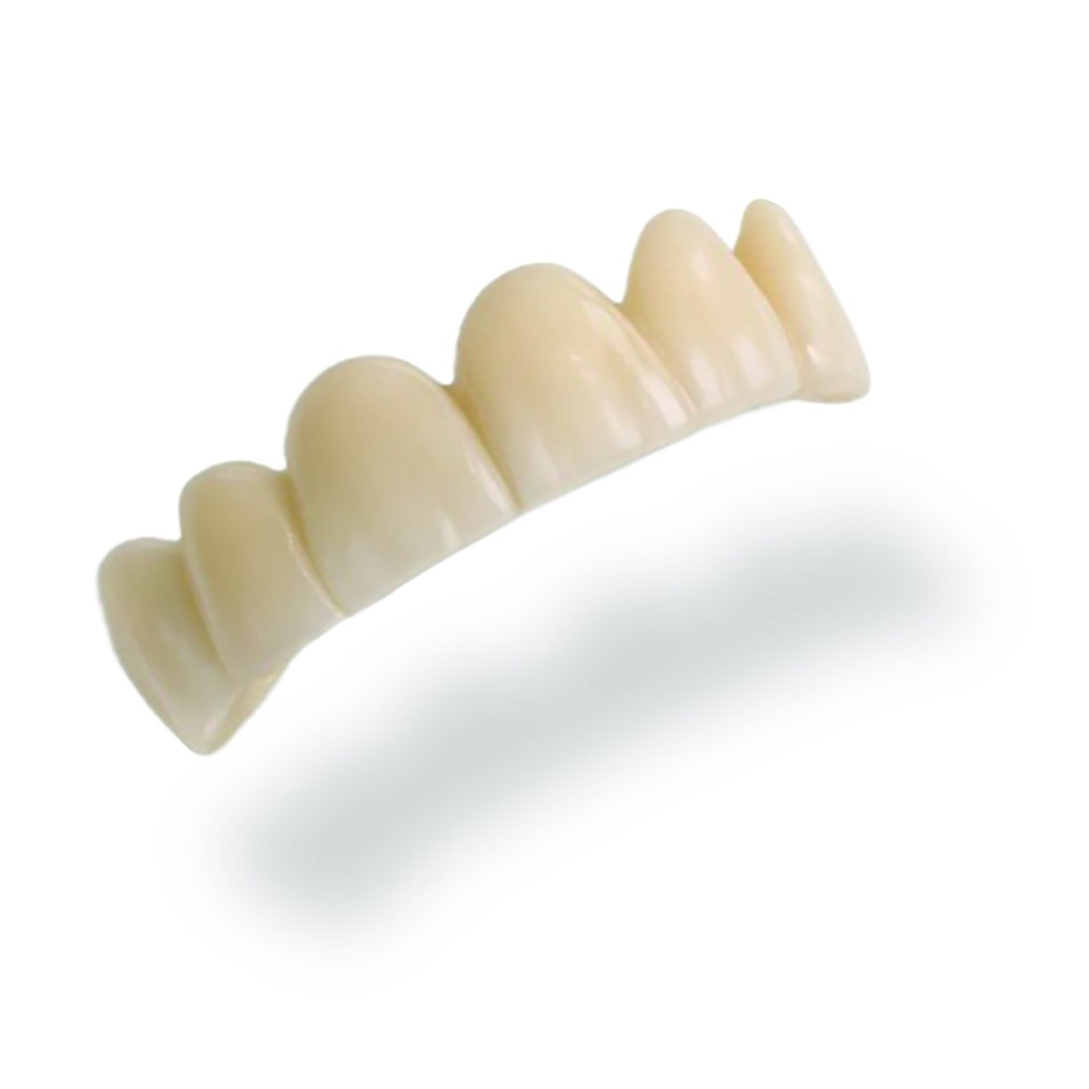
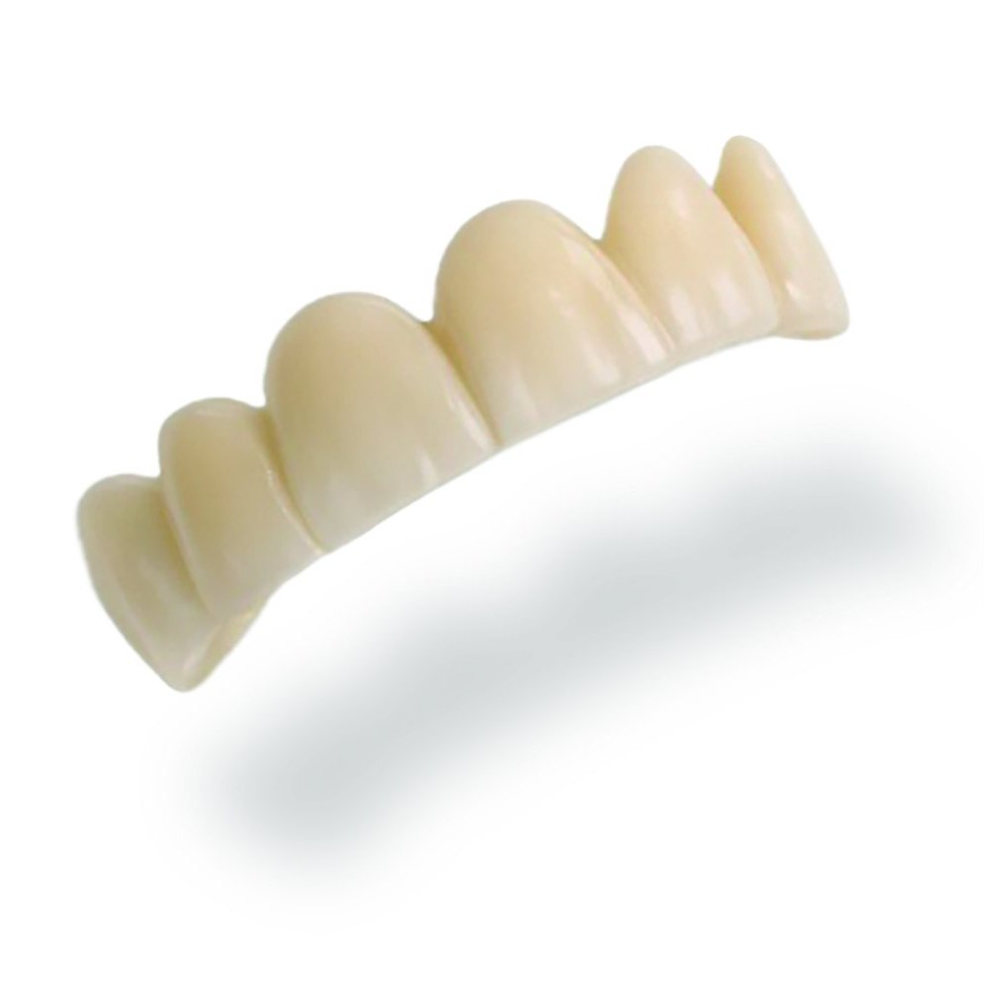
Fotos de tipo centradas en su marco y footer con enlaces en toda la web
Las fotos de estudio traian el objeto descentrado dentro del archivo
(reflejo abajo, mano entrando por una esquina), asi que aunque el marco
estaba centrado la pieza salia arriba o a un lado. Se recortan las 28
fotos de tarjeta con fondo blanco alrededor del sujeto y se recolocan
en un lienzo cuadrado, con lo que quedan centradas en la caja.

El pie de pagina, que era una sola linea, pasa a tener cuatro columnas:
presentacion y licencia, los ocho trabajos, las paginas del laboratorio
(incluido tiempos de entrega y la tarifa) y el contacto con telefono,
correo y WhatsApp. Igual en las 12 paginas; en movil a dos columnas.

Claude-Session: https://claude.ai/code/session_01G9ySE2q82eBR5v7f2bLYwG

diff --git a/corporativa/trabajos/all-on.html b/corporativa/trabajos/all-on.html
@@ -262,7 +262,15 @@ h2.big2 em { font-style:normal; color:var(--goldd); }
 </div></section>
 
 <div class="cta"><div class="in14"><h2>Conf&iacute;a tu pr&oacute;ximo caso a RB Dental.</h2><a class="pill" href="https://wa.me/34680555303?text=Hola,%20quiero%20enviar%20un%20caso%20al%20laboratorio">Enviar un caso &rarr;</a><a class="pill line" href="tel:+34913292062">Contactar con el laboratorio</a></div></div>
-<footer><div class="in14"><span>RB dental &middot; C/ Canal de Suez 42, 28042 Madrid &middot; Licencia sanitaria FP-00602</span><span>91 329 20 62 &middot; laboratorio@rbdental.es</span></div></footer>
+<footer><div class="in14">
+  <div class="fgrid4">
+    <div class="fcol"><img src="../img/logo-rb.png" alt="RB dental"><p>Laboratorio de pr&oacute;tesis dental digital en Madrid, desde 1990. Fabricamos para cl&iacute;nicas y odont&oacute;logos de toda Espa&ntilde;a.</p><p>Licencia sanitaria FP-00602 &middot; Comunidad de Madrid</p></div>
+    <div class="fcol"><h4>Nuestros trabajos</h4><a href="../trabajos/protesis-fija.html">Pr&oacute;tesis fija</a><a href="../trabajos/all-on.html">All-on-4 / All-on-6</a><a href="../trabajos/blender.html">Blender</a><a href="../trabajos/carga-inmediata.html">Carga inmediata</a><a href="../trabajos/removible.html">Removible</a><a href="../trabajos/diseno-de-sonrisa.html">Dise&ntilde;o de sonrisa</a><a href="../trabajos/ortodoncia.html">Ortodoncia</a><a href="../trabajos/ferulas.html">F&eacute;rulas</a></div>
+    <div class="fcol"><h4>Laboratorio</h4><a href="../index.html">Inicio</a><a href="../quienes-somos.html">Qui&eacute;nes somos</a><a href="../nuestros-trabajos.html">Nuestros trabajos</a><a href="../nuestros-trabajos.html#tiempos-de-entrega">Tiempos de entrega</a><a href="../como-enviar-un-caso.html">C&oacute;mo enviar un caso</a><a href="https://tarifas.laboratoriodentalrb.com" target="_blank" rel="noopener">Tarifas 2026</a></div>
+    <div class="fcol"><h4>Contacto</h4><p>C/ Canal de Suez 42<br>28042 Madrid</p><a href="tel:+34913292062">91 329 20 62</a><a href="mailto:laboratorio@rbdental.es">laboratorio@rbdental.es</a><a class="pill" href="https://wa.me/34680555303?text=Hola,%20quiero%20enviar%20un%20caso%20al%20laboratorio">WhatsApp &middot; 680 555 303</a></div>
+  </div>
+  <div class="fbottom"><span>&copy; 2026 RB Dental &middot; Laboratorio de Pr&oacute;tesis Dental Digital &middot; Madrid</span><span>Recogida y entrega gratuitas en Madrid &middot; env&iacute;os a toda Espa&ntilde;a</span></div>
+</div></footer>
 <svg style="display:none" xmlns="http://www.w3.org/2000/svg">
 <symbol id="ic-cal2" viewBox="0 0 24 24"><rect x="3" y="5" width="18" height="16" rx="3"/><path d="M3 10h18M8 3v4M16 3v4"/></symbol>
 <symbol id="ic-clock" viewBox="0 0 24 24"><circle cx="12" cy="12" r="9"/><path d="M12 7v5l3.5 2"/></symbol>

diff --git a/corporativa/trabajos/blender.html b/corporativa/trabajos/blender.html
@@ -288,7 +288,15 @@ h2.big2 em { font-style:normal; color:var(--goldd); }
 </div></section>
 
 <div class="cta"><div class="in14"><h2>Conf&iacute;a tu pr&oacute;ximo caso a RB Dental.</h2><a class="pill" href="https://wa.me/34680555303?text=Hola,%20quiero%20enviar%20un%20caso%20al%20laboratorio">Enviar un caso &rarr;</a><a class="pill line" href="tel:+34913292062">Contactar con el laboratorio</a></div></div>
-<footer><div class="in14"><span>RB dental &middot; C/ Canal de Suez 42, 28042 Madrid &middot; Licencia sanitaria FP-00602</span><span>91 329 20 62 &middot; laboratorio@rbdental.es</span></div></footer>
+<footer><div class="in14">
+  <div class="fgrid4">
+    <div class="fcol"><img src="../img/logo-rb.png" alt="RB dental"><p>Laboratorio de pr&oacute;tesis dental digital en Madrid, desde 1990. Fabricamos para cl&iacute;nicas y odont&oacute;logos de toda Espa&ntilde;a.</p><p>Licencia sanitaria FP-00602 &middot; Comunidad de Madrid</p></div>
+    <div class="fcol"><h4>Nuestros trabajos</h4><a href="../trabajos/protesis-fija.html">Pr&oacute;tesis fija</a><a href="../trabajos/all-on.html">All-on-4 / All-on-6</a><a href="../trabajos/blender.html">Blender</a><a href="../trabajos/carga-inmediata.html">Carga inmediata</a><a href="../trabajos/removible.html">Removible</a><a href="../trabajos/diseno-de-sonrisa.html">Dise&ntilde;o de sonrisa</a><a href="../trabajos/ortodoncia.html">Ortodoncia</a><a href="../trabajos/ferulas.html">F&eacute;rulas</a></div>
+    <div class="fcol"><h4>Laboratorio</h4><a href="../index.html">Inicio</a><a href="../quienes-somos.html">Qui&eacute;nes somos</a><a href="../nuestros-trabajos.html">Nuestros trabajos</a><a href="../nuestros-trabajos.html#tiempos-de-entrega">Tiempos de entrega</a><a href="../como-enviar-un-caso.html">C&oacute;mo enviar un caso</a><a href="https://tarifas.laboratoriodentalrb.com" target="_blank" rel="noopener">Tarifas 2026</a></div>
+    <div class="fcol"><h4>Contacto</h4><p>C/ Canal de Suez 42<br>28042 Madrid</p><a href="tel:+34913292062">91 329 20 62</a><a href="mailto:laboratorio@rbdental.es">laboratorio@rbdental.es</a><a class="pill" href="https://wa.me/34680555303?text=Hola,%20quiero%20enviar%20un%20caso%20al%20laboratorio">WhatsApp &middot; 680 555 303</a></div>
+  </div>
+  <div class="fbottom"><span>&copy; 2026 RB Dental &middot; Laboratorio de Pr&oacute;tesis Dental Digital &middot; Madrid</span><span>Recogida y entrega gratuitas en Madrid &middot; env&iacute;os a toda Espa&ntilde;a</span></div>
+</div></footer>
 <svg style="display:none" xmlns="http://www.w3.org/2000/svg">
 <symbol id="ic-cal2" viewBox="0 0 24 24"><rect x="3" y="5" width="18" height="16" rx="3"/><path d="M3 10h18M8 3v4M16 3v4"/></symbol>
 <symbol id="ic-clock" viewBox="0 0 24 24"><circle cx="12" cy="12" r="9"/><path d="M12 7v5l3.5 2"/></symbol>

diff --git a/corporativa/trabajos/carga-inmediata.html b/corporativa/trabajos/carga-inmediata.html
@@ -283,7 +283,15 @@ h2.big2 em { font-style:normal; color:var(--goldd); }
 </div></section>
 
 <div class="cta"><div class="in14"><h2>Conf&iacute;a tu pr&oacute;ximo caso a RB Dental.</h2><a class="pill" href="https://wa.me/34680555303?text=Hola,%20quiero%20enviar%20un%20caso%20al%20laboratorio">Enviar un caso &rarr;</a><a class="pill line" href="tel:+34913292062">Contactar con el laboratorio</a></div></div>
-<footer><div class="in14"><span>RB dental &middot; C/ Canal de Suez 42, 28042 Madrid &middot; Licencia sanitaria FP-00602</span><span>91 329 20 62 &middot; laboratorio@rbdental.es</span></div></footer>
+<footer><div class="in14">
+  <div class="fgrid4">
+    <div class="fcol"><img src="../img/logo-rb.png" alt="RB dental"><p>Laboratorio de pr&oacute;tesis dental digital en Madrid, desde 1990. Fabricamos para cl&iacute;nicas y odont&oacute;logos de toda Espa&ntilde;a.</p><p>Licencia sanitaria FP-00602 &middot; Comunidad de Madrid</p></div>
+    <div class="fcol"><h4>Nuestros trabajos</h4><a href="../trabajos/protesis-fija.html">Pr&oacute;tesis fija</a><a href="../trabajos/all-on.html">All-on-4 / All-on-6</a><a href="../trabajos/blender.html">Blender</a><a href="../trabajos/carga-inmediata.html">Carga inmediata</a><a href="../trabajos/removible.html">Removible</a><a href="../trabajos/diseno-de-sonrisa.html">Dise&ntilde;o de sonrisa</a><a href="../trabajos/ortodoncia.html">Ortodoncia</a><a href="../trabajos/ferulas.html">F&eacute;rulas</a></div>
+    <div class="fcol"><h4>Laboratorio</h4><a href="../index.html">Inicio</a><a href="../quienes-somos.html">Qui&eacute;nes somos</a><a href="../nuestros-trabajos.html">Nuestros trabajos</a><a href="../nuestros-trabajos.html#tiempos-de-entrega">Tiempos de entrega</a><a href="../como-enviar-un-caso.html">C&oacute;mo enviar un caso</a><a href="https://tarifas.laboratoriodentalrb.com" target="_blank" rel="noopener">Tarifas 2026</a></div>
+    <div class="fcol"><h4>Contacto</h4><p>C/ Canal de Suez 42<br>28042 Madrid</p><a href="tel:+34913292062">91 329 20 62</a><a href="mailto:laboratorio@rbdental.es">laboratorio@rbdental.es</a><a class="pill" href="https://wa.me/34680555303?text=Hola,%20quiero%20enviar%20un%20caso%20al%20laboratorio">WhatsApp &middot; 680 555 303</a></div>
+  </div>
+  <div class="fbottom"><span>&copy; 2026 RB Dental &middot; Laboratorio de Pr&oacute;tesis Dental Digital &middot; Madrid</span><span>Recogida y entrega gratuitas en Madrid &middot; env&iacute;os a toda Espa&ntilde;a</span></div>
+</div></footer>
 <svg style="display:none" xmlns="http://www.w3.org/2000/svg">
 <symbol id="ic-cal2" viewBox="0 0 24 24"><rect x="3" y="5" width="18" height="16" rx="3"/><path d="M3 10h18M8 3v4M16 3v4"/></symbol>
 <symbol id="ic-clock" viewBox="0 0 24 24"><circle cx="12" cy="12" r="9"/><path d="M12 7v5l3.5 2"/></symbol>

diff --git a/corporativa/trabajos/diseno-de-sonrisa.html b/corporativa/trabajos/diseno-de-sonrisa.html
@@ -248,7 +248,15 @@ h2.big2 em { font-style:normal; color:var(--goldd); }
 </div></section>
 
 <div class="cta"><div class="in14"><h2>Conf&iacute;a tu pr&oacute;ximo caso a RB Dental.</h2><a class="pill" href="https://wa.me/34680555303?text=Hola,%20quiero%20enviar%20un%20caso%20al%20laboratorio">Enviar un caso &rarr;</a><a class="pill line" href="tel:+34913292062">Contactar con el laboratorio</a></div></div>
-<footer><div class="in14"><span>RB dental &middot; C/ Canal de Suez 42, 28042 Madrid &middot; Licencia sanitaria FP-00602</span><span>91 329 20 62 &middot; laboratorio@rbdental.es</span></div></footer>
+<footer><div class="in14">
+  <div class="fgrid4">
+    <div class="fcol"><img src="../img/logo-rb.png" alt="RB dental"><p>Laboratorio de pr&oacute;tesis dental digital en Madrid, desde 1990. Fabricamos para cl&iacute;nicas y odont&oacute;logos de toda Espa&ntilde;a.</p><p>Licencia sanitaria FP-00602 &middot; Comunidad de Madrid</p></div>
+    <div class="fcol"><h4>Nuestros trabajos</h4><a href="../trabajos/protesis-fija.html">Pr&oacute;tesis fija</a><a href="../trabajos/all-on.html">All-on-4 / All-on-6</a><a href="../trabajos/blender.html">Blender</a><a href="../trabajos/carga-inmediata.html">Carga inmediata</a><a href="../trabajos/removible.html">Removible</a><a href="../trabajos/diseno-de-sonrisa.html">Dise&ntilde;o de sonrisa</a><a href="../trabajos/ortodoncia.html">Ortodoncia</a><a href="../trabajos/ferulas.html">F&eacute;rulas</a></div>
+    <div class="fcol"><h4>Laboratorio</h4><a href="../index.html">Inicio</a><a href="../quienes-somos.html">Qui&eacute;nes somos</a><a href="../nuestros-trabajos.html">Nuestros trabajos</a><a href="../nuestros-trabajos.html#tiempos-de-entrega">Tiempos de entrega</a><a href="../como-enviar-un-caso.html">C&oacute;mo enviar un caso</a><a href="https://tarifas.laboratoriodentalrb.com" target="_blank" rel="noopener">Tarifas 2026</a></div>
+    <div class="fcol"><h4>Contacto</h4><p>C/ Canal de Suez 42<br>28042 Madrid</p><a href="tel:+34913292062">91 329 20 62</a><a href="mailto:laboratorio@rbdental.es">laboratorio@rbdental.es</a><a class="pill" href="https://wa.me/34680555303?text=Hola,%20quiero%20enviar%20un%20caso%20al%20laboratorio">WhatsApp &middot; 680 555 303</a></div>
+  </div>
+  <div class="fbottom"><span>&copy; 2026 RB Dental &middot; Laboratorio de Pr&oacute;tesis Dental Digital &middot; Madrid</span><span>Recogida y entrega gratuitas en Madrid &middot; env&iacute;os a toda Espa&ntilde;a</span></div>
+</div></footer>
 <svg style="display:none" xmlns="http://www.w3.org/2000/svg">
 <symbol id="ic-cal2" viewBox="0 0 24 24"><rect x="3" y="5" width="18" height="16" rx="3"/><path d="M3 10h18M8 3v4M16 3v4"/></symbol>
 <symbol id="ic-clock" viewBox="0 0 24 24"><circle cx="12" cy="12" r="9"/><path d="M12 7v5l3.5 2"/></symbol>

diff --git a/corporativa/trabajos/ferulas.html b/corporativa/trabajos/ferulas.html
@@ -265,7 +265,15 @@ h2.big2 em { font-style:normal; color:var(--goldd); }
 </div></section>
 
 <div class="cta"><div class="in14"><h2>Conf&iacute;a tu pr&oacute;ximo caso a RB Dental.</h2><a class="pill" href="https://wa.me/34680555303?text=Hola,%20quiero%20enviar%20un%20caso%20al%20laboratorio">Enviar un caso &rarr;</a><a class="pill line" href="tel:+34913292062">Contactar con el laboratorio</a></div></div>
-<footer><div class="in14"><span>RB dental &middot; C/ Canal de Suez 42, 28042 Madrid &middot; Licencia sanitaria FP-00602</span><span>91 329 20 62 &middot; laboratorio@rbdental.es</span></div></footer>
+<footer><div class="in14">
+  <div class="fgrid4">
+    <div class="fcol"><img src="../img/logo-rb.png" alt="RB dental"><p>Laboratorio de pr&oacute;tesis dental digital en Madrid, desde 1990. Fabricamos para cl&iacute;nicas y odont&oacute;logos de toda Espa&ntilde;a.</p><p>Licencia sanitaria FP-00602 &middot; Comunidad de Madrid</p></div>
+    <div class="fcol"><h4>Nuestros trabajos</h4><a href="../trabajos/protesis-fija.html">Pr&oacute;tesis fija</a><a href="../trabajos/all-on.html">All-on-4 / All-on-6</a><a href="../trabajos/blender.html">Blender</a><a href="../trabajos/carga-inmediata.html">Carga inmediata</a><a href="../trabajos/removible.html">Removible</a><a href="../trabajos/diseno-de-sonrisa.html">Dise&ntilde;o de sonrisa</a><a href="../trabajos/ortodoncia.html">Ortodoncia</a><a href="../trabajos/ferulas.html">F&eacute;rulas</a></div>
+    <div class="fcol"><h4>Laboratorio</h4><a href="../index.html">Inicio</a><a href="../quienes-somos.html">Qui&eacute;nes somos</a><a href="../nuestros-trabajos.html">Nuestros trabajos</a><a href="../nuestros-trabajos.html#tiempos-de-entrega">Tiempos de entrega</a><a href="../como-enviar-un-caso.html">C&oacute;mo enviar un caso</a><a href="https://tarifas.laboratoriodentalrb.com" target="_blank" rel="noopener">Tarifas 2026</a></div>
+    <div class="fcol"><h4>Contacto</h4><p>C/ Canal de Suez 42<br>28042 Madrid</p><a href="tel:+34913292062">91 329 20 62</a><a href="mailto:laboratorio@rbdental.es">laboratorio@rbdental.es</a><a class="pill" href="https://wa.me/34680555303?text=Hola,%20quiero%20enviar%20un%20caso%20al%20laboratorio">WhatsApp &middot; 680 555 303</a></div>
+  </div>
+  <div class="fbottom"><span>&copy; 2026 RB Dental &middot; Laboratorio de Pr&oacute;tesis Dental Digital &middot; Madrid</span><span>Recogida y entrega gratuitas en Madrid &middot; env&iacute;os a toda Espa&ntilde;a</span></div>
+</div></footer>
 <svg style="display:none" xmlns="http://www.w3.org/2000/svg">
 <symbol id="ic-cal2" viewBox="0 0 24 24"><rect x="3" y="5" width="18" height="16" rx="3"/><path d="M3 10h18M8 3v4M16 3v4"/></symbol>
 <symbol id="ic-clock" viewBox="0 0 24 24"><circle cx="12" cy="12" r="9"/><path d="M12 7v5l3.5 2"/></symbol>

diff --git a/corporativa/trabajos/ortodoncia.html b/corporativa/trabajos/ortodoncia.html
@@ -257,7 +257,15 @@ h2.big2 em { font-style:normal; color:var(--goldd); }
 </div></section>
 
 <div class="cta"><div class="in14"><h2>Conf&iacute;a tu pr&oacute;ximo caso a RB Dental.</h2><a class="pill" href="https://wa.me/34680555303?text=Hola,%20quiero%20enviar%20un%20caso%20al%20laboratorio">Enviar un caso &rarr;</a><a class="pill line" href="tel:+34913292062">Contactar con el laboratorio</a></div></div>
-<footer><div class="in14"><span>RB dental &middot; C/ Canal de Suez 42, 28042 Madrid &middot; Licencia sanitaria FP-00602</span><span>91 329 20 62 &middot; laboratorio@rbdental.es</span></div></footer>
+<footer><div class="in14">
+  <div class="fgrid4">
+    <div class="fcol"><img src="../img/logo-rb.png" alt="RB dental"><p>Laboratorio de pr&oacute;tesis dental digital en Madrid, desde 1990. Fabricamos para cl&iacute;nicas y odont&oacute;logos de toda Espa&ntilde;a.</p><p>Licencia sanitaria FP-00602 &middot; Comunidad de Madrid</p></div>
+    <div class="fcol"><h4>Nuestros trabajos</h4><a href="../trabajos/protesis-fija.html">Pr&oacute;tesis fija</a><a href="../trabajos/all-on.html">All-on-4 / All-on-6</a><a href="../trabajos/blender.html">Blender</a><a href="../trabajos/carga-inmediata.html">Carga inmediata</a><a href="../trabajos/removible.html">Removible</a><a href="../trabajos/diseno-de-sonrisa.html">Dise&ntilde;o de sonrisa</a><a href="../trabajos/ortodoncia.html">Ortodoncia</a><a href="../trabajos/ferulas.html">F&eacute;rulas</a></div>
+    <div class="fcol"><h4>Laboratorio</h4><a href="../index.html">Inicio</a><a href="../quienes-somos.html">Qui&eacute;nes somos</a><a href="../nuestros-trabajos.html">Nuestros trabajos</a><a href="../nuestros-trabajos.html#tiempos-de-entrega">Tiempos de entrega</a><a href="../como-enviar-un-caso.html">C&oacute;mo enviar un caso</a><a href="https://tarifas.laboratoriodentalrb.com" target="_blank" rel="noopener">Tarifas 2026</a></div>
+    <div class="fcol"><h4>Contacto</h4><p>C/ Canal de Suez 42<br>28042 Madrid</p><a href="tel:+34913292062">91 329 20 62</a><a href="mailto:laboratorio@rbdental.es">laboratorio@rbdental.es</a><a class="pill" href="https://wa.me/34680555303?text=Hola,%20quiero%20enviar%20un%20caso%20al%20laboratorio">WhatsApp &middot; 680 555 303</a></div>
+  </div>
+  <div class="fbottom"><span>&copy; 2026 RB Dental &middot; Laboratorio de Pr&oacute;tesis Dental Digital &middot; Madrid</span><span>Recogida y entrega gratuitas en Madrid &middot; env&iacute;os a toda Espa&ntilde;a</span></div>
+</div></footer>
 <svg style="display:none" xmlns="http://www.w3.org/2000/svg">
 <symbol id="ic-cal2" viewBox="0 0 24 24"><rect x="3" y="5" width="18" height="16" rx="3"/><path d="M3 10h18M8 3v4M16 3v4"/></symbol>
 <symbol id="ic-clock" viewBox="0 0 24 24"><circle cx="12" cy="12" r="9"/><path d="M12 7v5l3.5 2"/></symbol>

diff --git a/corporativa/trabajos/protesis-fija.html b/corporativa/trabajos/protesis-fija.html
@@ -264,7 +264,15 @@ h2.big2 em { font-style:normal; color:var(--goldd); }
 </div></section>
 
 <div class="cta"><div class="in14"><h2>Conf&iacute;a tu pr&oacute;ximo caso a RB Dental.</h2><a class="pill" href="https://wa.me/34680555303?text=Hola,%20quiero%20enviar%20un%20caso%20al%20laboratorio">Enviar un caso &rarr;</a><a class="pill line" href="tel:+34913292062">Contactar con el laboratorio</a></div></div>
-<footer><div class="in14"><span>RB dental &middot; C/ Canal de Suez 42, 28042 Madrid &middot; Licencia sanitaria FP-00602</span><span>91 329 20 62 &middot; laboratorio@rbdental.es</span></div></footer>
+<footer><div class="in14">
+  <div class="fgrid4">
+    <div class="fcol"><img src="../img/logo-rb.png" alt="RB dental"><p>Laboratorio de pr&oacute;tesis dental digital en Madrid, desde 1990. Fabricamos para cl&iacute;nicas y odont&oacute;logos de toda Espa&ntilde;a.</p><p>Licencia sanitaria FP-00602 &middot; Comunidad de Madrid</p></div>
+    <div class="fcol"><h4>Nuestros trabajos</h4><a href="../trabajos/protesis-fija.html">Pr&oacute;tesis fija</a><a href="../trabajos/all-on.html">All-on-4 / All-on-6</a><a href="../trabajos/blender.html">Blender</a><a href="../trabajos/carga-inmediata.html">Carga inmediata</a><a href="../trabajos/removible.html">Removible</a><a href="../trabajos/diseno-de-sonrisa.html">Dise&ntilde;o de sonrisa</a><a href="../trabajos/ortodoncia.html">Ortodoncia</a><a href="../trabajos/ferulas.html">F&eacute;rulas</a></div>
+    <div class="fcol"><h4>Laboratorio</h4><a href="../index.html">Inicio</a><a href="../quienes-somos.html">Qui&eacute;nes somos</a><a href="../nuestros-trabajos.html">Nuestros trabajos</a><a href="../nuestros-trabajos.html#tiempos-de-entrega">Tiempos de entrega</a><a href="../como-enviar-un-caso.html">C&oacute;mo enviar un caso</a><a href="https://tarifas.laboratoriodentalrb.com" target="_blank" rel="noopener">Tarifas 2026</a></div>
+    <div class="fcol"><h4>Contacto</h4><p>C/ Canal de Suez 42<br>28042 Madrid</p><a href="tel:+34913292062">91 329 20 62</a><a href="mailto:laboratorio@rbdental.es">laboratorio@rbdental.es</a><a class="pill" href="https://wa.me/34680555303?text=Hola,%20quiero%20enviar%20un%20caso%20al%20laboratorio">WhatsApp &middot; 680 555 303</a></div>
+  </div>
+  <div class="fbottom"><span>&copy; 2026 RB Dental &middot; Laboratorio de Pr&oacute;tesis Dental Digital &middot; Madrid</span><span>Recogida y entrega gratuitas en Madrid &middot; env&iacute;os a toda Espa&ntilde;a</span></div>
+</div></footer>
 <svg style="display:none" xmlns="http://www.w3.org/2000/svg">
 <symbol id="ic-cal2" viewBox="0 0 24 24"><rect x="3" y="5" width="18" height="16" rx="3"/><path d="M3 10h18M8 3v4M16 3v4"/></symbol>
 <symbol id="ic-clock" viewBox="0 0 24 24"><circle cx="12" cy="12" r="9"/><path d="M12 7v5l3.5 2"/></symbol>

diff --git a/corporativa/trabajos/removible.html b/corporativa/trabajos/removible.html
@@ -264,7 +264,15 @@ h2.big2 em { font-style:normal; color:var(--goldd); }
 </div></section>
 
 <div class="cta"><div class="in14"><h2>Conf&iacute;a tu pr&oacute;ximo caso a RB Dental.</h2><a class="pill" href="https://wa.me/34680555303?text=Hola,%20quiero%20enviar%20un%20caso%20al%20laboratorio">Enviar un caso &rarr;</a><a class="pill line" href="tel:+34913292062">Contactar con el laboratorio</a></div></div>
-<footer><div class="in14"><span>RB dental &middot; C/ Canal de Suez 42, 28042 Madrid &middot; Licencia sanitaria FP-00602</span><span>91 329 20 62 &middot; laboratorio@rbdental.es</span></div></footer>
+<footer><div class="in14">
+  <div class="fgrid4">
+    <div class="fcol"><img src="../img/logo-rb.png" alt="RB dental"><p>Laboratorio de pr&oacute;tesis dental digital en Madrid, desde 1990. Fabricamos para cl&iacute;nicas y odont&oacute;logos de toda Espa&ntilde;a.</p><p>Licencia sanitaria FP-00602 &middot; Comunidad de Madrid</p></div>
+    <div class="fcol"><h4>Nuestros trabajos</h4><a href="../trabajos/protesis-fija.html">Pr&oacute;tesis fija</a><a href="../trabajos/all-on.html">All-on-4 / All-on-6</a><a href="../trabajos/blender.html">Blender</a><a href="../trabajos/carga-inmediata.html">Carga inmediata</a><a href="../trabajos/removible.html">Removible</a><a href="../trabajos/diseno-de-sonrisa.html">Dise&ntilde;o de sonrisa</a><a href="../trabajos/ortodoncia.html">Ortodoncia</a><a href="../trabajos/ferulas.html">F&eacute;rulas</a></div>
+    <div class="fcol"><h4>Laboratorio</h4><a href="../index.html">Inicio</a><a href="../quienes-somos.html">Qui&eacute;nes somos</a><a href="../nuestros-trabajos.html">Nuestros trabajos</a><a href="../nuestros-trabajos.html#tiempos-de-entrega">Tiempos de entrega</a><a href="../como-enviar-un-caso.html">C&oacute;mo enviar un caso</a><a href="https://tarifas.laboratoriodentalrb.com" target="_blank" rel="noopener">Tarifas 2026</a></div>
+    <div class="fcol"><h4>Contacto</h4><p>C/ Canal de Suez 42<br>28042 Madrid</p><a href="tel:+34913292062">91 329 20 62</a><a href="mailto:laboratorio@rbdental.es">laboratorio@rbdental.es</a><a class="pill" href="https://wa.me/34680555303?text=Hola,%20quiero%20enviar%20un%20caso%20al%20laboratorio">WhatsApp &middot; 680 555 303</a></div>
+  </div>
+  <div class="fbottom"><span>&copy; 2026 RB Dental &middot; Laboratorio de Pr&oacute;tesis Dental Digital &middot; Madrid</span><span>Recogida y entrega gratuitas en Madrid &middot; env&iacute;os a toda Espa&ntilde;a</span></div>
+</div></footer>
 <svg style="display:none" xmlns="http://www.w3.org/2000/svg">
 <symbol id="ic-cal2" viewBox="0 0 24 24"><rect x="3" y="5" width="18" height="16" rx="3"/><path d="M3 10h18M8 3v4M16 3v4"/></symbol>
 <symbol id="ic-clock" viewBox="0 0 24 24"><circle cx="12" cy="12" r="9"/><path d="M12 7v5l3.5 2"/></symbol>

diff --git a/corporativa/quienes-somos.html b/corporativa/quienes-somos.html
@@ -234,7 +234,15 @@ h2.big2 em { font-style:normal; color:var(--goldd); }
 </div></section>
 
 <div class="cta"><div class="in14"><h2>Conf&iacute;a tu pr&oacute;ximo caso a RB Dental.</h2><a class="pill" href="https://wa.me/34680555303?text=Hola,%20quiero%20enviar%20un%20caso%20al%20laboratorio">Enviar un caso &rarr;</a><a class="pill line" href="tel:+34913292062">91 329 20 62</a></div></div>
-<footer><div class="in14"><span>RB dental &middot; C/ Canal de Suez 42, 28042 Madrid &middot; Licencia sanitaria FP-00602</span><span>91 329 20 62 &middot; laboratorio@rbdental.es</span></div></footer>
+<footer><div class="in14">
+  <div class="fgrid4">
+    <div class="fcol"><img src="img/logo-rb.png" alt="RB dental"><p>Laboratorio de pr&oacute;tesis dental digital en Madrid, desde 1990. Fabricamos para cl&iacute;nicas y odont&oacute;logos de toda Espa&ntilde;a.</p><p>Licencia sanitaria FP-00602 &middot; Comunidad de Madrid</p></div>
+    <div class="fcol"><h4>Nuestros trabajos</h4><a href="trabajos/protesis-fija.html">Pr&oacute;tesis fija</a><a href="trabajos/all-on.html">All-on-4 / All-on-6</a><a href="trabajos/blender.html">Blender</a><a href="trabajos/carga-inmediata.html">Carga inmediata</a><a href="trabajos/removible.html">Removible</a><a href="trabajos/diseno-de-sonrisa.html">Dise&ntilde;o de sonrisa</a><a href="trabajos/ortodoncia.html">Ortodoncia</a><a href="trabajos/ferulas.html">F&eacute;rulas</a></div>
+    <div class="fcol"><h4>Laboratorio</h4><a href="index.html">Inicio</a><a href="quienes-somos.html">Qui&eacute;nes somos</a><a href="nuestros-trabajos.html">Nuestros trabajos</a><a href="nuestros-trabajos.html#tiempos-de-entrega">Tiempos de entrega</a><a href="como-enviar-un-caso.html">C&oacute;mo enviar un caso</a><a href="https://tarifas.laboratoriodentalrb.com" target="_blank" rel="noopener">Tarifas 2026</a></div>
+    <div class="fcol"><h4>Contacto</h4><p>C/ Canal de Suez 42<br>28042 Madrid</p><a href="tel:+34913292062">91 329 20 62</a><a href="mailto:laboratorio@rbdental.es">laboratorio@rbdental.es</a><a class="pill" href="https://wa.me/34680555303?text=Hola,%20quiero%20enviar%20un%20caso%20al%20laboratorio">WhatsApp &middot; 680 555 303</a></div>
+  </div>
+  <div class="fbottom"><span>&copy; 2026 RB Dental &middot; Laboratorio de Pr&oacute;tesis Dental Digital &middot; Madrid</span><span>Recogida y entrega gratuitas en Madrid &middot; env&iacute;os a toda Espa&ntilde;a</span></div>
+</div></footer>
 <svg style="display:none" xmlns="http://www.w3.org/2000/svg">
 <symbol id="ic-cal2" viewBox="0 0 24 24"><rect x="3" y="5" width="18" height="16" rx="3"/><path d="M3 10h18M8 3v4M16 3v4"/></symbol>
 <symbol id="ic-clock" viewBox="0 0 24 24"><circle cx="12" cy="12" r="9"/><path d="M12 7v5l3.5 2"/></symbol>

diff --git a/corporativa/como-enviar-un-caso.html b/corporativa/como-enviar-un-caso.html
@@ -138,7 +138,15 @@
 </div></section>
 
 <div class="cta"><div class="in14"><h2>Env&iacute;a tu primer caso sin compromiso.</h2><a class="pill" href="https://wa.me/34680555303?text=Hola,%20quiero%20enviar%20un%20caso%20al%20laboratorio">WhatsApp &middot; 680 555 303</a><a class="pill line" href="tel:+34913292062">91 329 20 62</a></div></div>
-<footer><div class="in14"><span>RB dental &middot; C/ Canal de Suez 42, 28042 Madrid &middot; Licencia sanitaria FP-00602</span><span>91 329 20 62 &middot; laboratorio@rbdental.es</span></div></footer>
+<footer><div class="in14">
+  <div class="fgrid4">
+    <div class="fcol"><img src="img/logo-rb.png" alt="RB dental"><p>Laboratorio de pr&oacute;tesis dental digital en Madrid, desde 1990. Fabricamos para cl&iacute;nicas y odont&oacute;logos de toda Espa&ntilde;a.</p><p>Licencia sanitaria FP-00602 &middot; Comunidad de Madrid</p></div>
+    <div class="fcol"><h4>Nuestros trabajos</h4><a href="trabajos/protesis-fija.html">Pr&oacute;tesis fija</a><a href="trabajos/all-on.html">All-on-4 / All-on-6</a><a href="trabajos/blender.html">Blender</a><a href="trabajos/carga-inmediata.html">Carga inmediata</a><a href="trabajos/removible.html">Removible</a><a href="trabajos/diseno-de-sonrisa.html">Dise&ntilde;o de sonrisa</a><a href="trabajos/ortodoncia.html">Ortodoncia</a><a href="trabajos/ferulas.html">F&eacute;rulas</a></div>
+    <div class="fcol"><h4>Laboratorio</h4><a href="index.html">Inicio</a><a href="quienes-somos.html">Qui&eacute;nes somos</a><a href="nuestros-trabajos.html">Nuestros trabajos</a><a href="nuestros-trabajos.html#tiempos-de-entrega">Tiempos de entrega</a><a href="como-enviar-un-caso.html">C&oacute;mo enviar un caso</a><a href="https://tarifas.laboratoriodentalrb.com" target="_blank" rel="noopener">Tarifas 2026</a></div>
+    <div class="fcol"><h4>Contacto</h4><p>C/ Canal de Suez 42<br>28042 Madrid</p><a href="tel:+34913292062">91 329 20 62</a><a href="mailto:laboratorio@rbdental.es">laboratorio@rbdental.es</a><a class="pill" href="https://wa.me/34680555303?text=Hola,%20quiero%20enviar%20un%20caso%20al%20laboratorio">WhatsApp &middot; 680 555 303</a></div>
+  </div>
+  <div class="fbottom"><span>&copy; 2026 RB Dental &middot; Laboratorio de Pr&oacute;tesis Dental Digital &middot; Madrid</span><span>Recogida y entrega gratuitas en Madrid &middot; env&iacute;os a toda Espa&ntilde;a</span></div>
+</div></footer>
 <svg style="display:none" xmlns="http://www.w3.org/2000/svg">
 <symbol id="ic-cal2" viewBox="0 0 24 24"><rect x="3" y="5" width="18" height="16" rx="3"/><path d="M3 10h18M8 3v4M16 3v4"/></symbol>
 <symbol id="ic-clock" viewBox="0 0 24 24"><circle cx="12" cy="12" r="9"/><path d="M12 7v5l3.5 2"/></symbol>

diff --git a/corporativa/index.html b/corporativa/index.html
@@ -206,7 +206,15 @@
 </div></section>
 
 <div class="cta"><div class="in14"><h2>&iquest;Tienes un caso? Hablamos.</h2><a class="pill" href="https://wa.me/34680555303?text=Hola,%20quiero%20enviar%20un%20caso%20al%20laboratorio">WhatsApp &middot; 680 555 303</a><a class="pill line" href="tel:+34913292062">91 329 20 62</a></div></div>
-<footer><div class="in14"><span>RB dental &middot; Laboratorio de Pr&oacute;tesis Dental Digital &middot; Madrid</span><span>info@laboratoriodentalrb.com &middot; 91 329 20 62</span></div></footer>
+<footer><div class="in14">
+  <div class="fgrid4">
+    <div class="fcol"><img src="img/logo-rb.png" alt="RB dental"><p>Laboratorio de pr&oacute;tesis dental digital en Madrid, desde 1990. Fabricamos para cl&iacute;nicas y odont&oacute;logos de toda Espa&ntilde;a.</p><p>Licencia sanitaria FP-00602 &middot; Comunidad de Madrid</p></div>
+    <div class="fcol"><h4>Nuestros trabajos</h4><a href="trabajos/protesis-fija.html">Pr&oacute;tesis fija</a><a href="trabajos/all-on.html">All-on-4 / All-on-6</a><a href="trabajos/blender.html">Blender</a><a href="trabajos/carga-inmediata.html">Carga inmediata</a><a href="trabajos/removible.html">Removible</a><a href="trabajos/diseno-de-sonrisa.html">Dise&ntilde;o de sonrisa</a><a href="trabajos/ortodoncia.html">Ortodoncia</a><a href="trabajos/ferulas.html">F&eacute;rulas</a></div>
+    <div class="fcol"><h4>Laboratorio</h4><a href="index.html">Inicio</a><a href="quienes-somos.html">Qui&eacute;nes somos</a><a href="nuestros-trabajos.html">Nuestros trabajos</a><a href="nuestros-trabajos.html#tiempos-de-entrega">Tiempos de entrega</a><a href="como-enviar-un-caso.html">C&oacute;mo enviar un caso</a><a href="https://tarifas.laboratoriodentalrb.com" target="_blank" rel="noopener">Tarifas 2026</a></div>
+    <div class="fcol"><h4>Contacto</h4><p>C/ Canal de Suez 42<br>28042 Madrid</p><a href="tel:+34913292062">91 329 20 62</a><a href="mailto:laboratorio@rbdental.es">laboratorio@rbdental.es</a><a class="pill" href="https://wa.me/34680555303?text=Hola,%20quiero%20enviar%20un%20caso%20al%20laboratorio">WhatsApp &middot; 680 555 303</a></div>
+  </div>
+  <div class="fbottom"><span>&copy; 2026 RB Dental &middot; Laboratorio de Pr&oacute;tesis Dental Digital &middot; Madrid</span><span>Recogida y entrega gratuitas en Madrid &middot; env&iacute;os a toda Espa&ntilde;a</span></div>
+</div></footer>
 <svg style="display:none" xmlns="http://www.w3.org/2000/svg">
 <symbol id="ic-cal2" viewBox="0 0 24 24"><rect x="3" y="5" width="18" height="16" rx="3"/><path d="M3 10h18M8 3v4M16 3v4"/></symbol>
 <symbol id="ic-clock" viewBox="0 0 24 24"><circle cx="12" cy="12" r="9"/><path d="M12 7v5l3.5 2"/></symbol>

diff --git a/corporativa/nuestros-trabajos.html b/corporativa/nuestros-trabajos.html
@@ -73,7 +73,15 @@
   </div>
 </div></section>
 <div class="cta"><div class="in14"><h2>&iquest;No encuentras lo que buscas? Te asesoramos.</h2><a class="pill" href="https://wa.me/34680555303?text=Hola,%20quiero%20enviar%20un%20caso%20al%20laboratorio">WhatsApp &middot; 680 555 303</a></div></div>
-<footer><div class="in14"><span>RB dental &middot; Madrid</span><span>info@laboratoriodentalrb.com</span></div></footer>
+<footer><div class="in14">
+  <div class="fgrid4">
+    <div class="fcol"><img src="img/logo-rb.png" alt="RB dental"><p>Laboratorio de pr&oacute;tesis dental digital en Madrid, desde 1990. Fabricamos para cl&iacute;nicas y odont&oacute;logos de toda Espa&ntilde;a.</p><p>Licencia sanitaria FP-00602 &middot; Comunidad de Madrid</p></div>
+    <div class="fcol"><h4>Nuestros trabajos</h4><a href="trabajos/protesis-fija.html">Pr&oacute;tesis fija</a><a href="trabajos/all-on.html">All-on-4 / All-on-6</a><a href="trabajos/blender.html">Blender</a><a href="trabajos/carga-inmediata.html">Carga inmediata</a><a href="trabajos/removible.html">Removible</a><a href="trabajos/diseno-de-sonrisa.html">Dise&ntilde;o de sonrisa</a><a href="trabajos/ortodoncia.html">Ortodoncia</a><a href="trabajos/ferulas.html">F&eacute;rulas</a></div>
+    <div class="fcol"><h4>Laboratorio</h4><a href="index.html">Inicio</a><a href="quienes-somos.html">Qui&eacute;nes somos</a><a href="nuestros-trabajos.html">Nuestros trabajos</a><a href="nuestros-trabajos.html#tiempos-de-entrega">Tiempos de entrega</a><a href="como-enviar-un-caso.html">C&oacute;mo enviar un caso</a><a href="https://tarifas.laboratoriodentalrb.com" target="_blank" rel="noopener">Tarifas 2026</a></div>
+    <div class="fcol"><h4>Contacto</h4><p>C/ Canal de Suez 42<br>28042 Madrid</p><a href="tel:+34913292062">91 329 20 62</a><a href="mailto:laboratorio@rbdental.es">laboratorio@rbdental.es</a><a class="pill" href="https://wa.me/34680555303?text=Hola,%20quiero%20enviar%20un%20caso%20al%20laboratorio">WhatsApp &middot; 680 555 303</a></div>
+  </div>
+  <div class="fbottom"><span>&copy; 2026 RB Dental &middot; Laboratorio de Pr&oacute;tesis Dental Digital &middot; Madrid</span><span>Recogida y entrega gratuitas en Madrid &middot; env&iacute;os a toda Espa&ntilde;a</span></div>
+</div></footer>
 <svg style="display:none" xmlns="http://www.w3.org/2000/svg">
 <symbol id="ic-cal2" viewBox="0 0 24 24"><rect x="3" y="5" width="18" height="16" rx="3"/><path d="M3 10h18M8 3v4M16 3v4"/></symbol>
 <symbol id="ic-clock" viewBox="0 0 24 24"><circle cx="12" cy="12" r="9"/><path d="M12 7v5l3.5 2"/></symbol>
